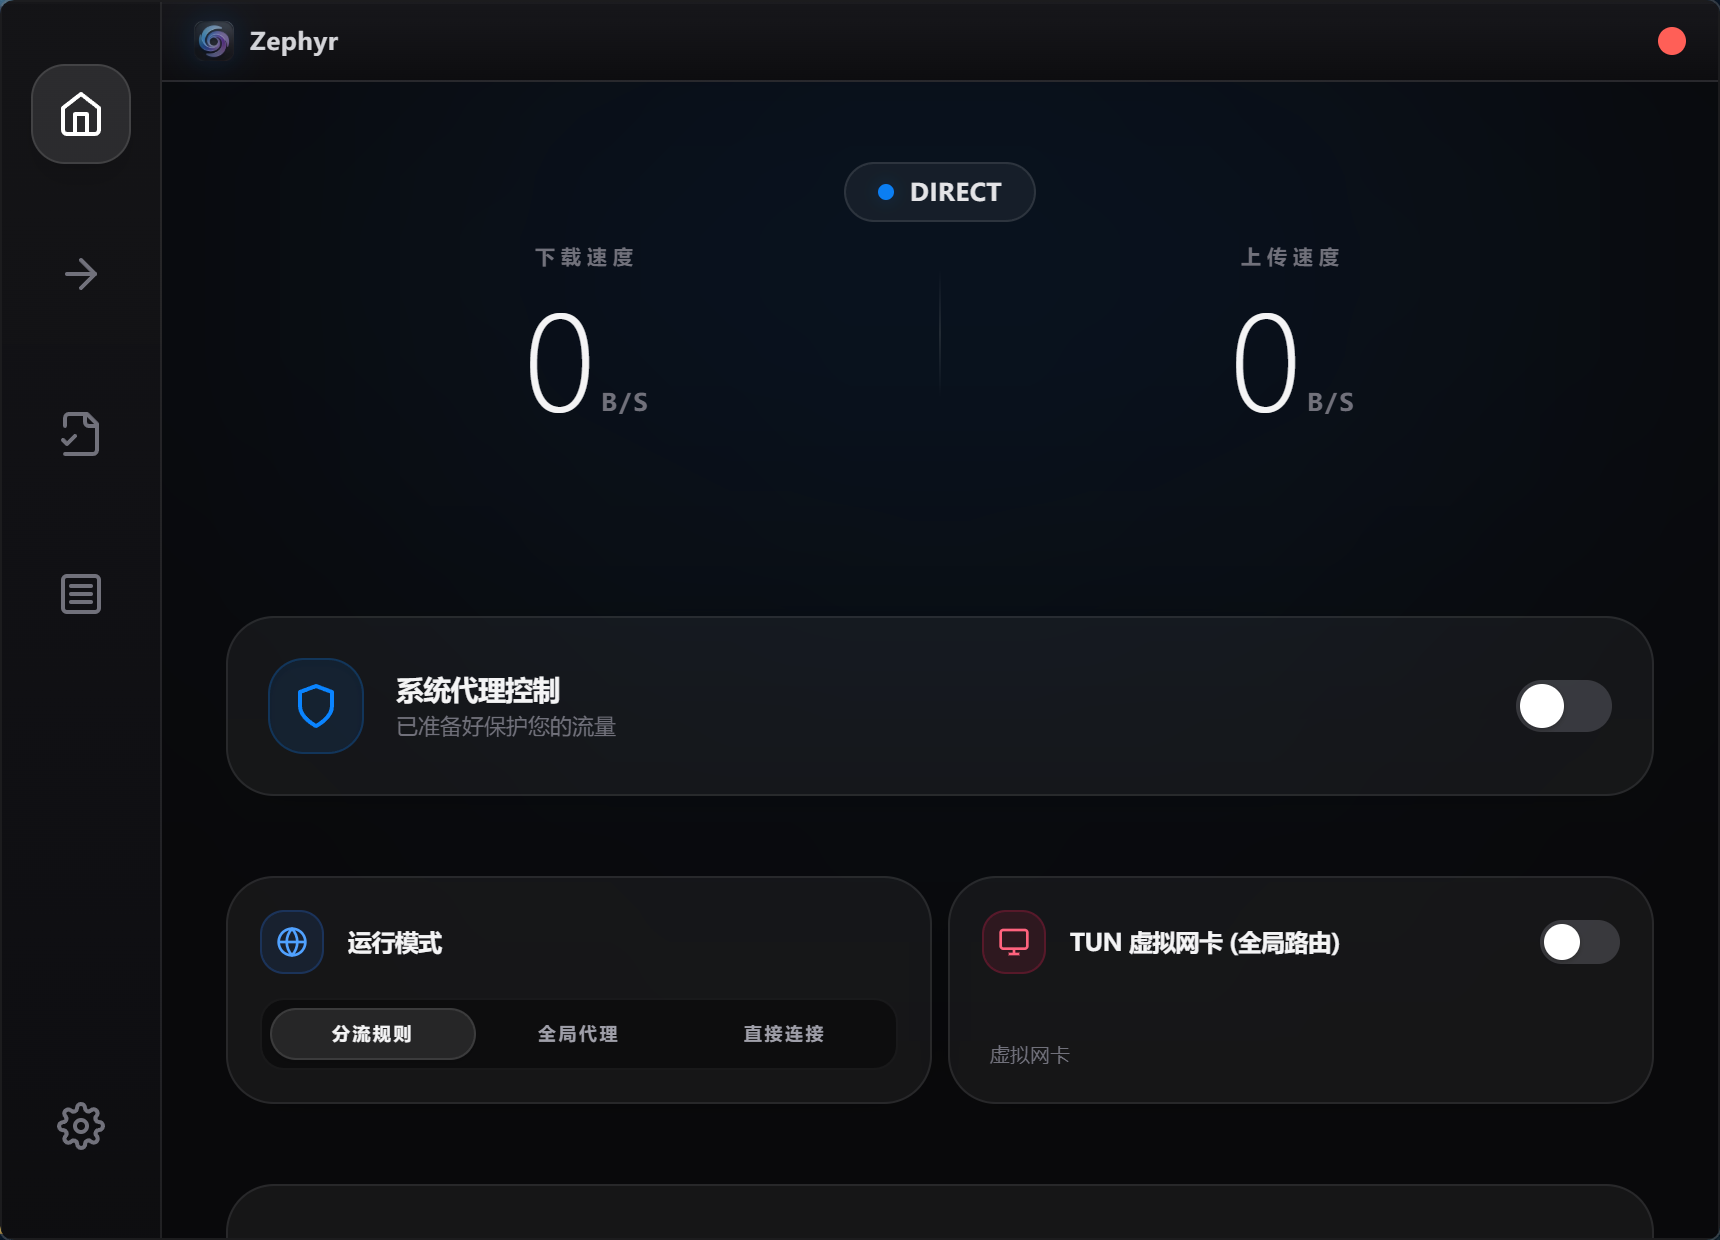
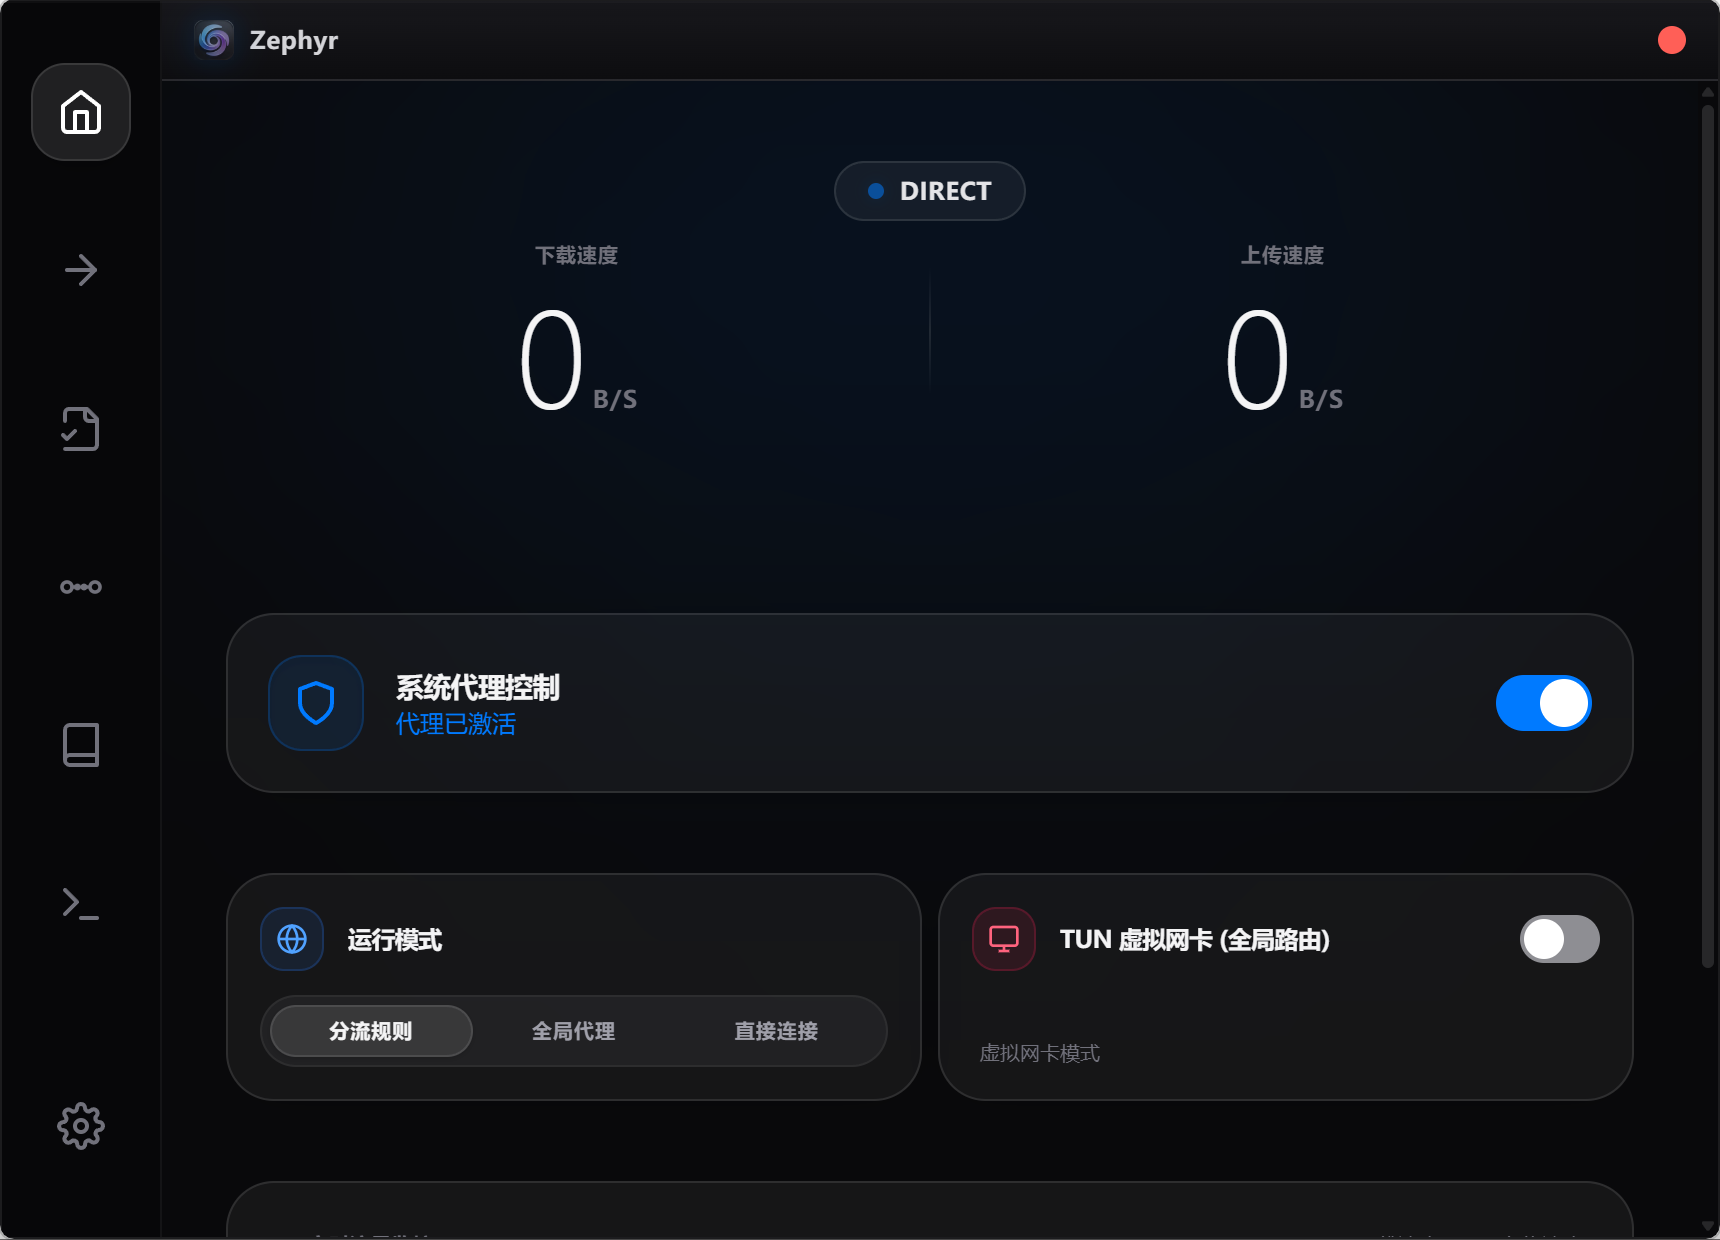
security: reject symlinks in ZIP/TAR extraction, add compression bomb detection - ZIP: skip symlink entries during extraction - TAR: reject symlink and hard link entries outright - GZIP: detect suspicious compression ratio (200:1 threshold) - Update screenshots

diff --git a/apps/desktop/src-tauri/src/updater.rs b/apps/desktop/src-tauri/src/updater.rs
@@ -313,6 +313,10 @@ fn extract_from_zip(
 
     for i in 0..archive.len() {
         let mut file = archive.by_index(i).map_err(|e| e.to_string())?;
+        // Reject symlinks outright — not silently skip
+        if file.is_symlink() {
+            return Err("Refusing to extract symlink from ZIP".to_owned());
+        }
         let name = file.name();
         if name.contains("..") || name.starts_with('/') || name.starts_with('\\') {
             return Err(format!("Malicious ZIP path detected: {name}"));
@@ -323,6 +327,17 @@ fn extract_from_zip(
         #[cfg(any(target_os = "macos", target_os = "linux"))]
         let matched = lower.ends_with("/mihomo") || lower == "mihomo";
         if matched || lower.ends_with(expected) {
+            // Zip bomb detection: check uncompressed size and compression ratio
+            let uncompressed = file.size();
+            let compressed = file.compressed_size();
+            if uncompressed > 200 * 1024 * 1024 {
+                return Err("ZIP entry uncompressed size exceeds 200 MB limit".to_owned());
+            }
+            if compressed > 0 && uncompressed > compressed.saturating_mul(200) {
+                return Err(
+                    "Suspicious ZIP compression ratio detected (possible zip bomb)".to_owned(),
+                );
+            }
             let mut out_file = std::fs::File::create(exe_path).map_err(|e| e.to_string())?;
             let written = std::io::copy(&mut file, &mut out_file).map_err(|e| e.to_string())?;
             if written == 0 {
@@ -339,6 +354,7 @@ fn extract_from_gz(
     exe_path: &std::path::Path,
 ) -> Result<(), String> {
     let file = std::fs::File::open(archive_path).map_err(|e| e.to_string())?;
+    let compressed_size = file.metadata().map_err(|e| e.to_string())?.len();
     let mut decoder = GzDecoder::new(file);
 
     let temp_tar_path = archive_path.with_extension("tar");
@@ -355,6 +371,14 @@ fn extract_from_gz(
         if total_decompressed > 200 * 1024 * 1024 {
             let _ = std::fs::remove_file(&temp_tar_path);
             return Err("Decompressed gz too large".to_owned());
+        }
+        // Bomb ratio check: use multiplication to avoid integer division edge cases
+        if total_decompressed > 64 * 1024
+            && compressed_size > 0
+            && total_decompressed > compressed_size.saturating_mul(200)
+        {
+            let _ = std::fs::remove_file(&temp_tar_path);
+            return Err("Suspicious compression ratio detected (possible zip bomb)".to_owned());
         }
         temp_decompressed
             .write_all(buffer.get(..n).unwrap_or(&[]))
@@ -377,6 +401,12 @@ fn extract_from_gz(
             .map_err(|e| format!("Failed to parse tar entries: {e}"))?
         {
             let mut entry_inner = entry.map_err(|e| e.to_string())?;
+            // Reject symlinks and hard links outright
+            let entry_type = entry_inner.header().entry_type();
+            if entry_type.is_symlink() || entry_type.is_hard_link() {
+                let _ = std::fs::remove_file(&temp_tar_path);
+                return Err("Refusing to extract linked TAR entry".to_owned());
+            }
             let path = entry_inner.path().map_err(|e| e.to_string())?;
             let path_str = path.to_string_lossy().replace('\\', "/");
             let file_name = path.file_name().and_then(|n| n.to_str()).unwrap_or("");
